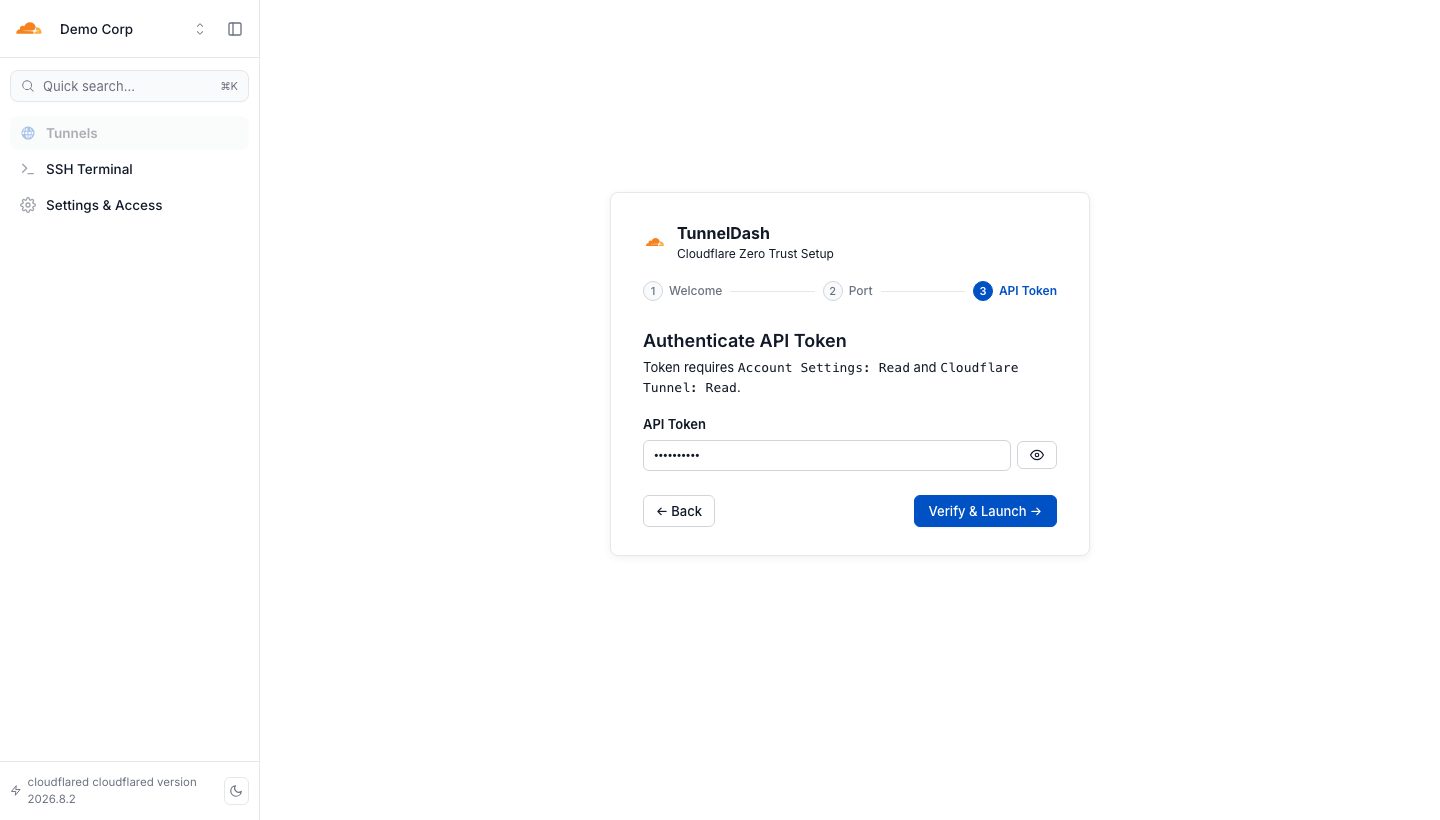
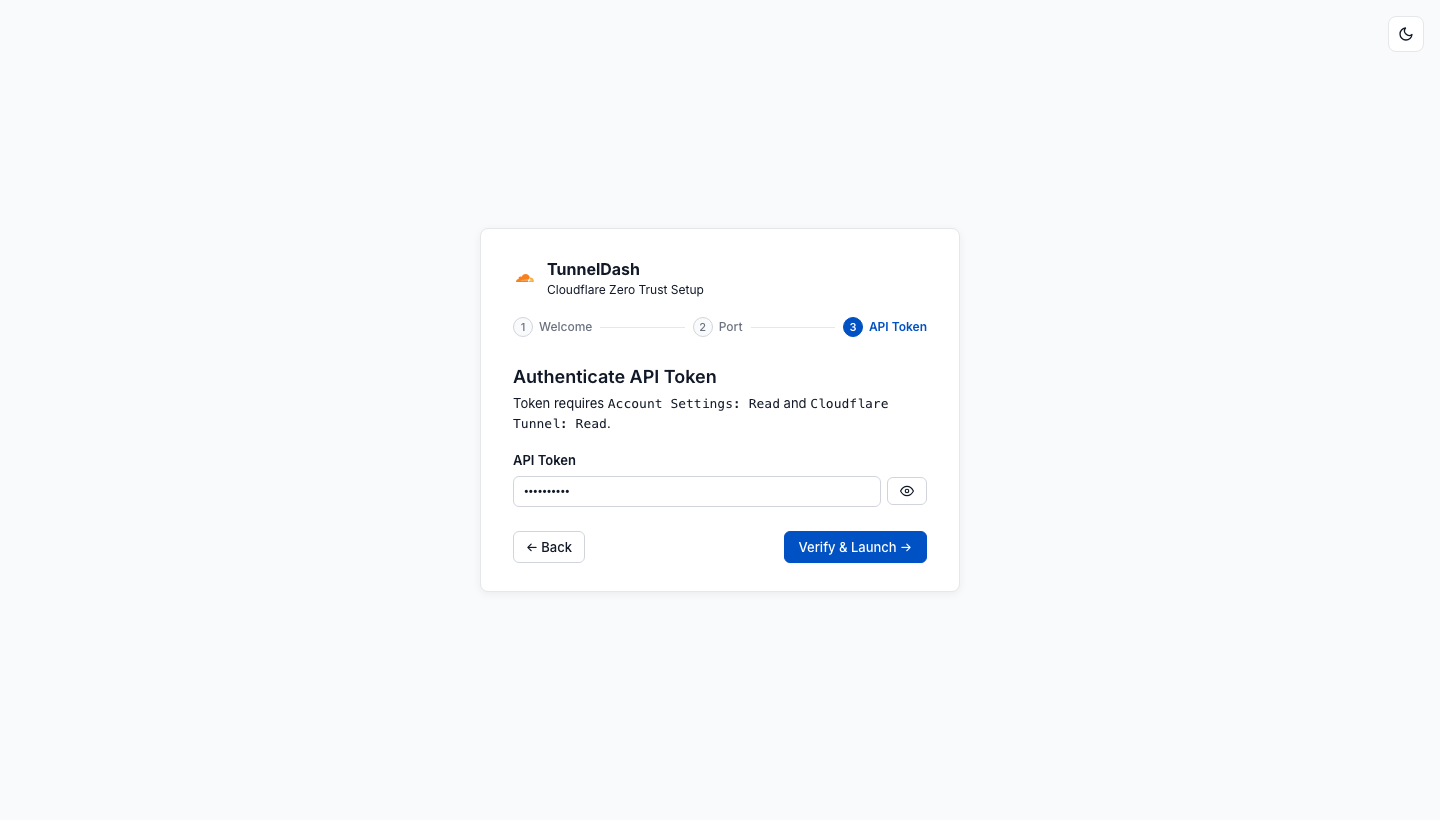
Fullscreen setup, shorter window title, window drag region, remove fake account name

diff --git a/src/App.css b/src/App.css
@@ -143,6 +143,16 @@ html, body {
   flex-shrink: 0;
 }
 
+/* macOS overlay title bar: draggable strip above the sidebar header */
+.cf-kumo-sidebar-drag {
+  display: none;
+  flex-shrink: 0;
+}
+html.mac .cf-kumo-sidebar-drag {
+  display: block;
+  height: 52px;
+}
+
 .cf-logo-link {
   display: flex;
   align-items: center;
@@ -428,6 +438,7 @@ html, body {
   overflow-y: auto;
   height: 100vh;
 }
+html.mac .cf-kumo-main { padding-top: 42px; }
 
 .cf-kumo-content-container {
   width: 100%;
@@ -1071,6 +1082,40 @@ html.dark-theme .cf-proto-tag.ssh {
   background: transparent !important;
 }
 
+/* ─── Setup Fullscreen (no sidebar during onboarding) ────────────────────── */
+.cf-setup-fullscreen {
+  display: flex;
+  justify-content: center;
+  align-items: center;
+  min-height: 100vh;
+  width: 100vw;
+  position: relative;
+  background-color: var(--kumo-base);
+}
+
+.cf-setup-theme-toggle {
+  position: absolute;
+  top: 16px;
+  right: 16px;
+}
+.cf-setup-theme-toggle button {
+  width: 36px;
+  height: 36px;
+  border-radius: 8px;
+  border: 1px solid var(--kumo-line);
+  background: var(--kumo-canvas);
+  color: var(--kumo-secondary);
+  cursor: pointer;
+  display: flex;
+  align-items: center;
+  justify-content: center;
+  transition: all 0.12s ease;
+}
+.cf-setup-theme-toggle button:hover {
+  background: var(--kumo-recessed);
+  color: var(--kumo-label);
+}
+
 /* ─── Setup Stepper ──────────────────────────────────────────────────────── */
 .cf-setup-container {
   display: flex;
@@ -1079,6 +1124,10 @@ html.dark-theme .cf-proto-tag.ssh {
   min-height: calc(100vh - 120px);
   padding: 20px;
   width: 100%;
+}
+
+.cf-setup-fullscreen .cf-setup-container {
+  min-height: 100vh;
 }
 
 .cf-setup-card {

diff --git a/src/App.tsx b/src/App.tsx
@@ -123,14 +123,39 @@ export function App() {
 
   const accountDisplay =
     settings.accountName ||
-    (settings.accountId ? `Account: ${settings.accountId.slice(0, 8)}…` : "CoderMauro Space");
+    (settings.accountId ? `Account: ${settings.accountId.slice(0, 8)}…` : "Not connected");
+
+  if (!verified) {
+    return (
+      <div className="cf-setup-fullscreen">
+        <div className="cf-setup-theme-toggle">
+          <button type="button" onClick={toggleTheme} title="Toggle theme">
+            {theme === "light" ? <MoonIcon size={16} /> : <SunIcon size={16} />}
+          </button>
+        </div>
+        <SetupScreen
+          settings={settings}
+          save={saveSettings}
+          verify={verifyToken}
+          verifying={verifying}
+          verified={verified}
+          error={error}
+          setError={setError}
+          isPortValid={isPortValid}
+        />
+      </div>
+    );
+  }
 
   return (
     <div className="cf-kumo-app">
       {/* ─── Cloudflare Kumo Sidebar (Collapsible) ─── */}
       <aside className={`cf-kumo-sidebar ${sidebarCollapsed ? "collapsed" : ""}`}>
+        {/* macOS: draggable strip under the traffic lights / overlay title bar */}
+        <div className="cf-kumo-sidebar-drag" data-tauri-drag-region />
+
         {/* Header: Flame Logo + Account Switcher + Toggle */}
-        <div className="cf-kumo-sidebar-header">
+        <div className="cf-kumo-sidebar-header" data-tauri-drag-region>
           <a
             href="/"
             className="cf-logo-link"

diff --git a/index.html b/index.html
@@ -5,7 +5,7 @@
     <link rel="icon" type="image/svg+xml" href="/favicon.svg" />
     <meta name="viewport" content="width=device-width, initial-scale=1.0" />
     <meta name="theme-color" content="#080B10" />
-    <title>TunnelDash · Cloudflare Zero Trust Dashboard</title>
+    <title>TunnelDash</title>
     <link rel="preconnect" href="https://fonts.googleapis.com" />
     <link rel="preconnect" href="https://fonts.gstatic.com" crossorigin />
     <link href="https://fonts.googleapis.com/css2?family=Plus+Jakarta+Sans:wght@400;500;600;700;800&family=JetBrains+Mono:wght@400;500;600;700&display=swap" rel="stylesheet" />
